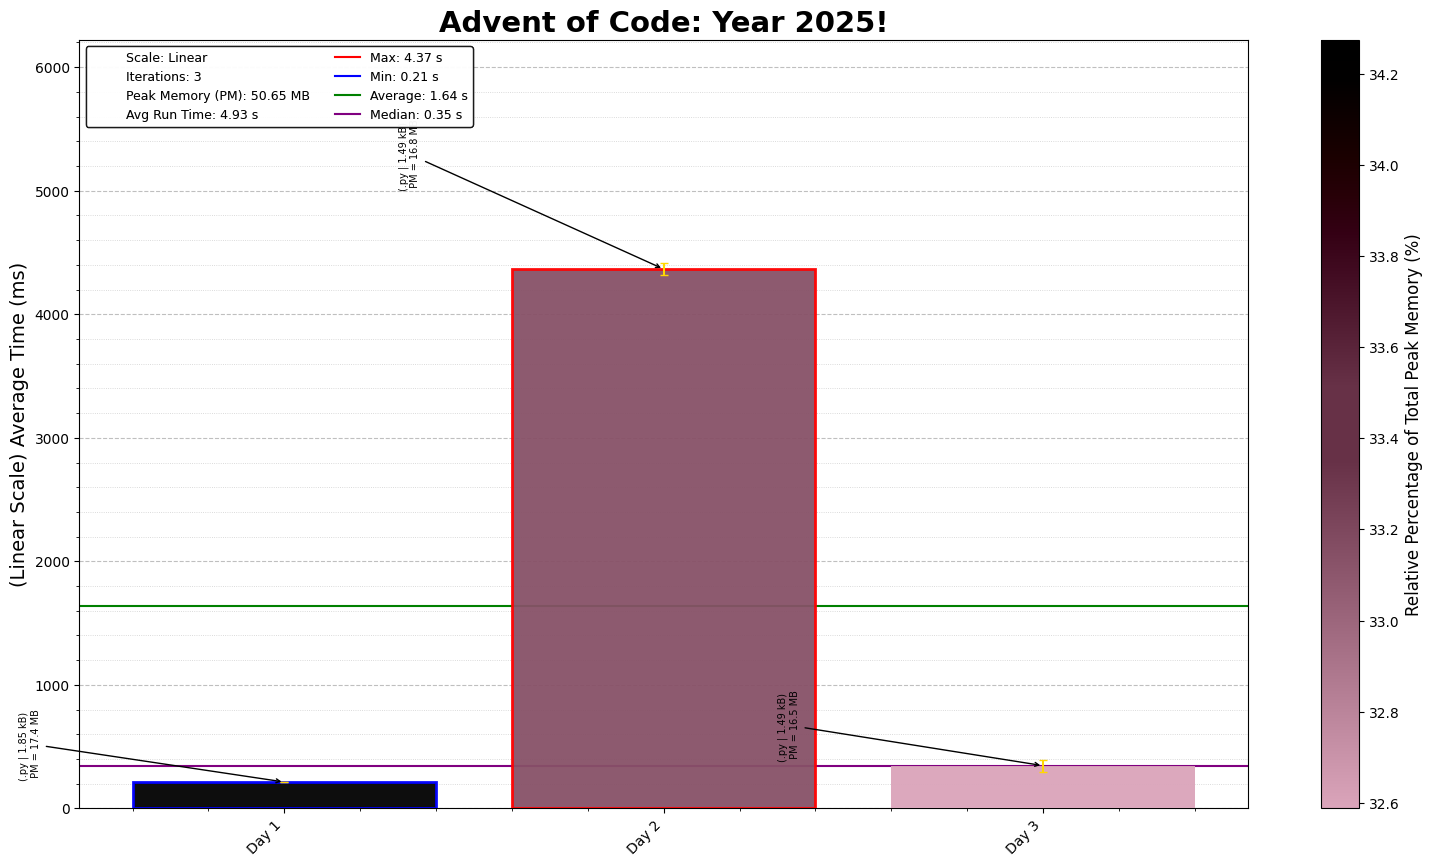
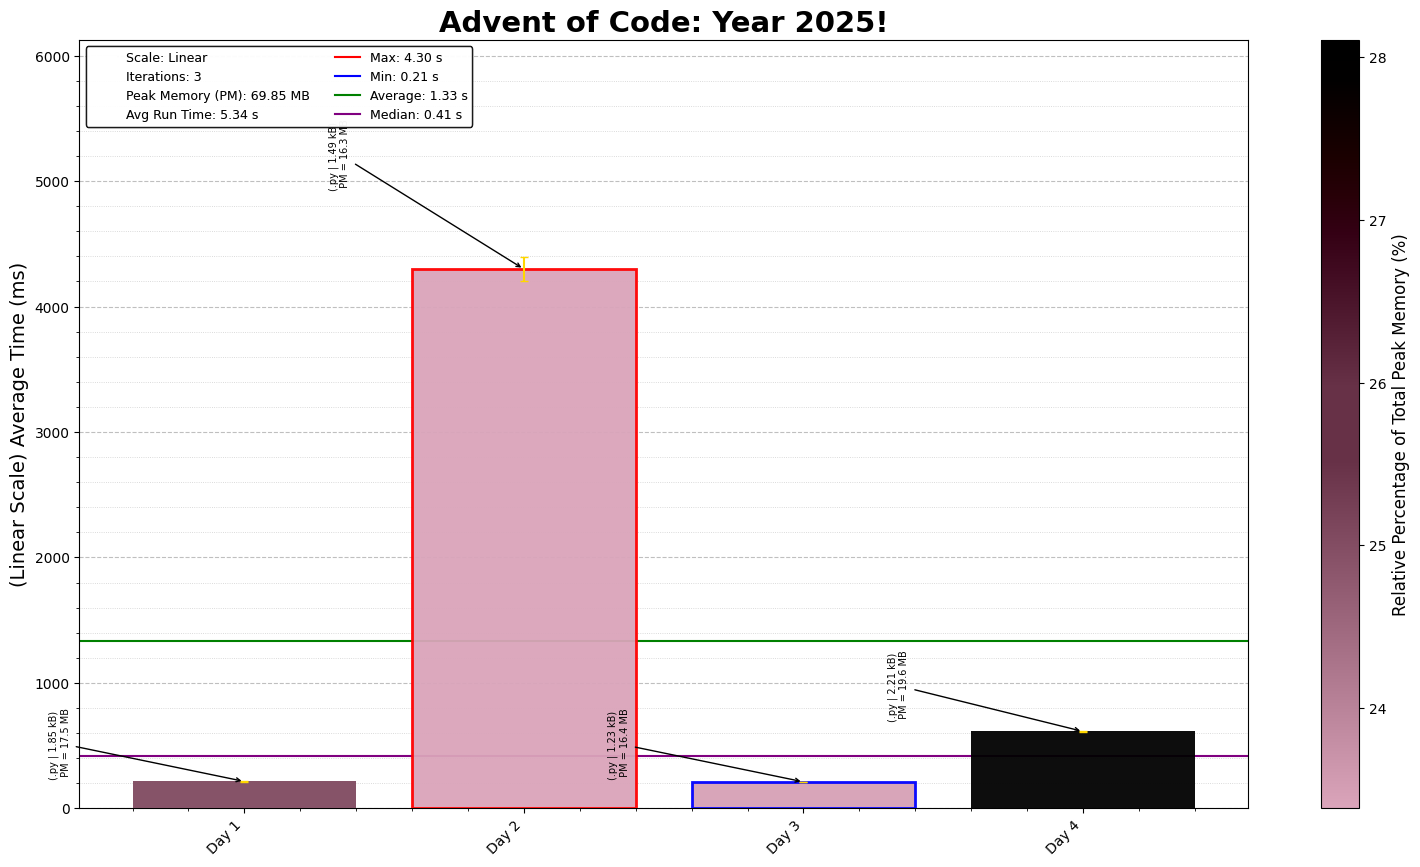
AoC 2025 Day 04: Printing Departments

diff --git a/2025/04/2025Day04.py b/2025/04/2025Day04.py
@@ -1,0 +1,68 @@
+"""Advent of Code - Day 4, Year 2025
+Solution Started: December 4, 2025
+Puzzle Link: https://adventofcode.com/2025/day/4
+Solution by: Abbas Moosajee
+Brief: [Code/Problem Description]"""
+
+#!/usr/bin/env python3
+from pathlib import Path
+
+# Load input file
+input_file = "Day04_input.txt"
+input_path = Path(__file__).parent / input_file
+
+with input_path.open("r", encoding="utf-8") as f:
+    data = f.read().splitlines()
+
+class Printers:
+    ADJACENT = [(0, 1), (0, -1), (-1, 0), (1, 0), (1, 1), (1, -1), (-1, 1), (-1, -1)]
+    def __init__(self, input_grid):
+        self.grid_dict = {
+            (row_no, col_no): cell
+            for row_no, row_data in enumerate(input_grid)
+            for col_no, cell in enumerate(row_data)
+        }
+
+    def get_neighbors(self, pos):
+        paper_neighbors = set()
+        for (dr, dc) in self.ADJACENT:
+            new_pos = (pos[0] + dr, pos[1] + dc)
+            if self.grid_dict.get(new_pos, '.') == '@':
+                paper_neighbors.add(new_pos)
+        return paper_neighbors
+
+    def get_paper_rolls(self):
+        return set(filter(lambda item: item[1] == '@', self.grid_dict.items()))
+
+    def identify_accescible_paper(self):
+        accescible_rolls = 0
+        for pos, cell in self.grid_dict.items():
+            if cell != '@':
+                continue
+            papers = self.get_neighbors(pos)
+            if len(papers) < 4:
+                accescible_rolls += 1
+        return accescible_rolls
+
+    def move_all_papers(self):
+        init_papers = len(self.get_paper_rolls())
+        while True:
+            accescible_rolls = 0
+            for pos, cell in self.grid_dict.items():
+                if cell != '@':
+                    continue
+                papers = self.get_neighbors(pos)
+                if len(papers) < 4:
+                    accescible_rolls += 1
+                    self.grid_dict[pos] = '.'
+            if accescible_rolls == 0:
+                break
+
+        return init_papers - len(self.get_paper_rolls())
+
+aoc_print = Printers(data)
+papers_avail = aoc_print.identify_accescible_paper()
+print("AoC Day 04, P1:", papers_avail)
+
+papers_moved = aoc_print.move_all_papers()
+print("AoC Day 04, P2:", papers_moved)

diff --git a/2025/README_2025.md b/2025/README_2025.md
@@ -7,3 +7,4 @@ This repository contains coding solutions for the 2025 Advent of Code.
 1. **Day 1- Secret Entrance**: *Python* | Basic python code for rotating a list representing a dial, BUT basic is good.
 2. **Day 2 - Gift Shop** *Python* | Identifying and counting invalid ids, but remember duplicating can be avoided using sets.
 3. **Day 3 - Lobby** | *Python* | Maximising the number built in a list of numbers
+4. **Day 4 - Printing Department**: *Python* | Pretty simple grid problem, and if you dont compute unnecessary things it runs faster.
